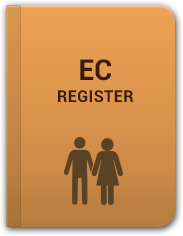
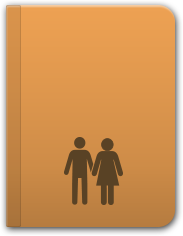
Replaced home s creen buttons with those without text and showed translatable text

Changed region(s): [[0.3005, 0.2373, 0.7377, 0.4449]]

diff --git a/dristhi-app/assets/css/home.css b/dristhi-app/assets/css/home.css
@@ -24,13 +24,6 @@
     border: none;
     padding: 60px 0 0;
 }
-.btn-register span {
-    /* Hide the text. */
-    text-indent: 100%;
-    white-space: nowrap;
-    overflow: hidden;
-    display: block;
-}
 .btn-register .register-count {
     position: absolute;
     top: -2px;
@@ -42,8 +35,6 @@
     padding: 10px 0 0;
     text-align: center;
     font-size: 14px;
-    /* show text */
-    text-indent: 0;
 }
 .btn-register .register-title {
     font-weight: bold;
